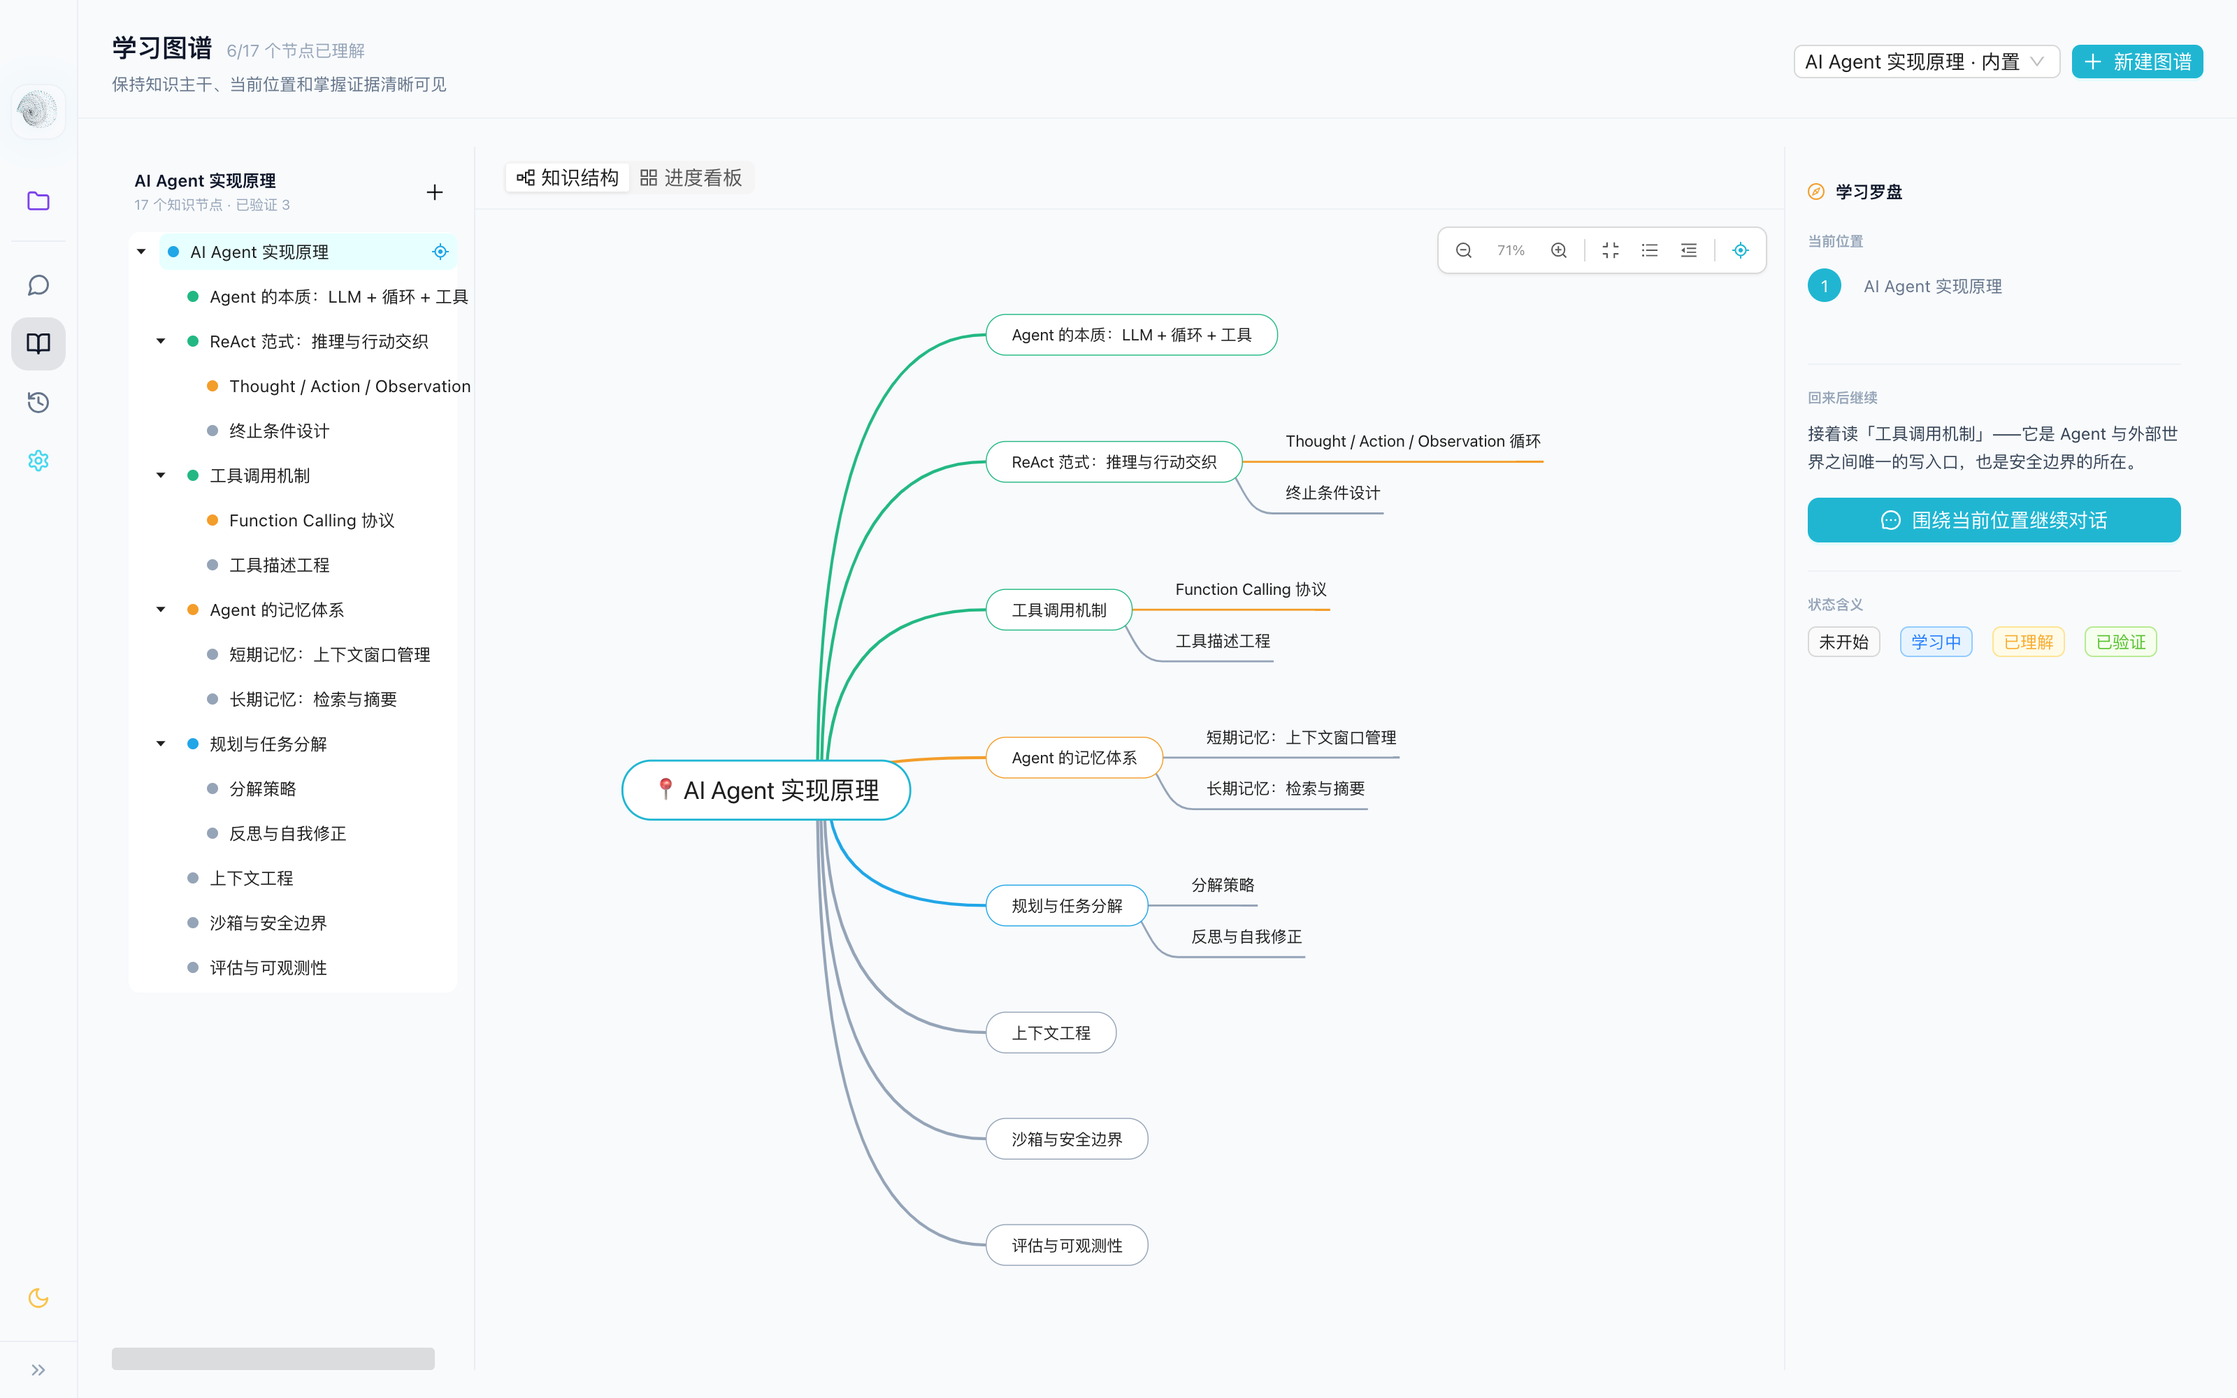
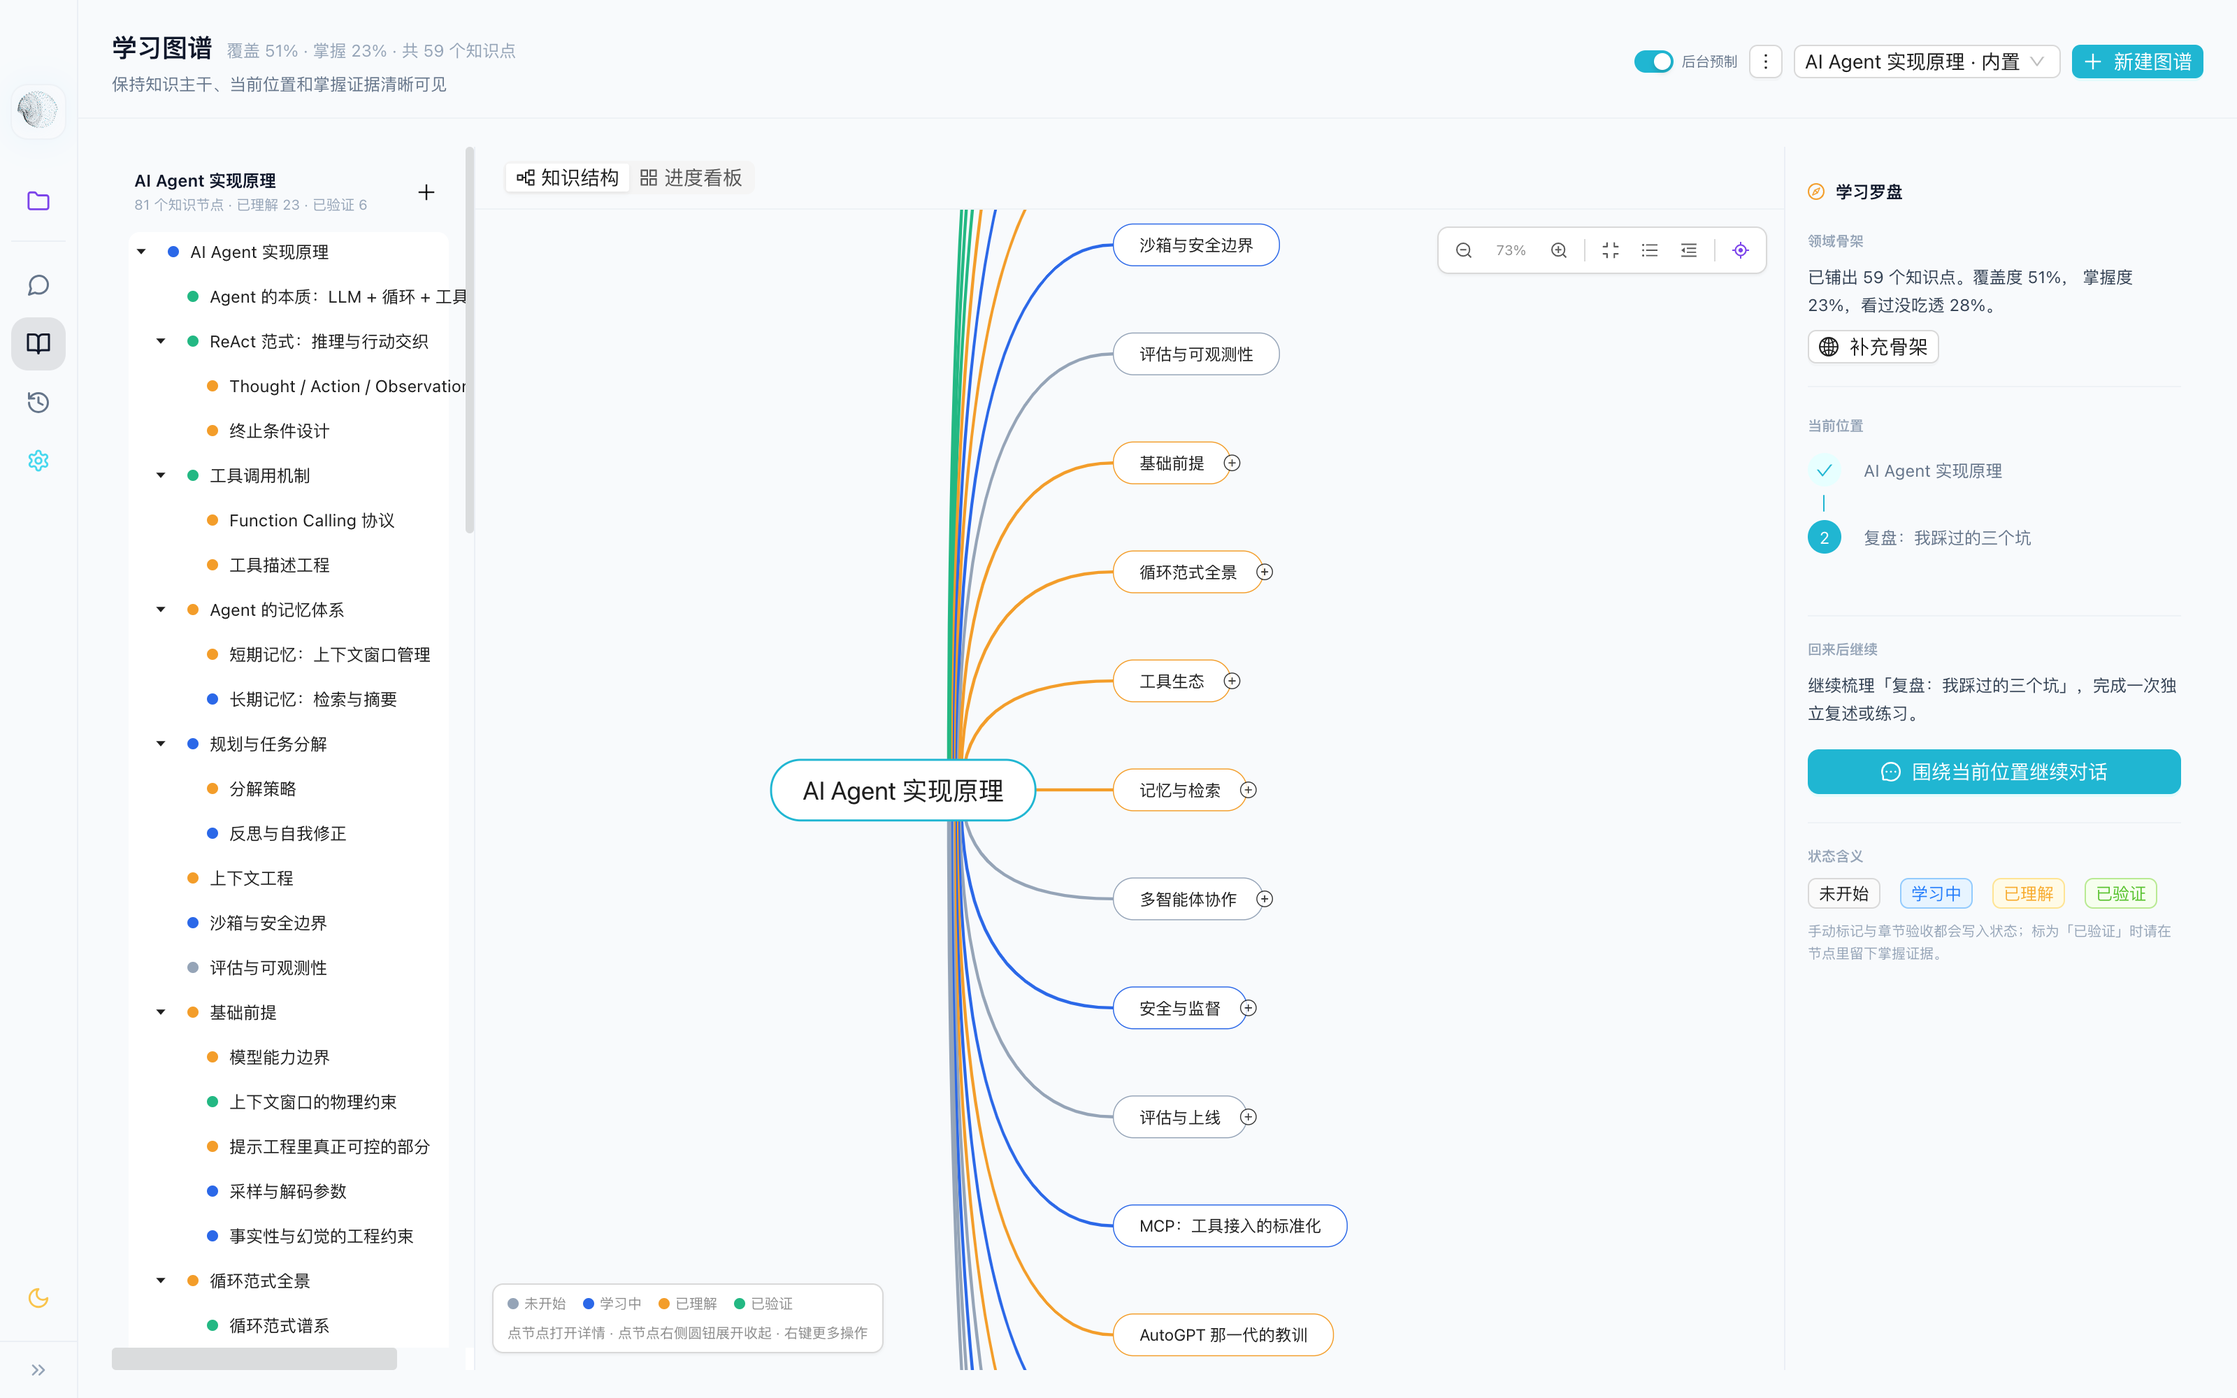
docs: 重采 README 界面截图，同步居中详情窗口与知识契约说明
旧截图拍摄于节点详情还是右侧抽屉、图谱只有 30 个节点的时期，与当前
界面已经不符。四张图全部按真实界面重采（3200x2000）：

- hero-mindmap  收起到主干 + 缩放到 70% 取景。81 节点的图谱直接适配
                画布只有 18%，分支名不可读，所以改成结构总览取景
- book-reader   居中详情窗口，滚到「技术要点 / 表格 / 代码实例」同屏
- selection-ask 浮动工具条（圈选提问 / 下钻 / 平铺同类 / 跨域门户）
- progress-board 进度看板：骨架规模 59、覆盖 51%、掌握 23%

同步调整采集脚本与会话说明：

- capture-screenshots.js 按 title 定位纯图标工具条按钮，新增导图取景
  函数（收起主干后缩放到目标比例），详情窗口改用 .ant-modal-body 作为
  滚动容器，圈选逻辑适配居中窗口
- README 补充正文生成契约（定义先行 / 具体量 / 三档确定性）、居中阅读
  窗口、圈选工具条四个动作，并修正内置图谱规模（17 章 → 10 分支 81 知识点）
- docs/screenshots/README.md 增补取景约定；AGENTS.md 记录截图失效条件
- CHANGELOG 补记上一版遗漏的节点详情窗口与知识契约变更

diff --git a/scripts/capture-screenshots.js b/scripts/capture-screenshots.js
@@ -13,6 +13,12 @@
 //
 // 用法：
 //   node scripts/capture-screenshots.js [输出目录，默认 docs/screenshots]
+//
+// 采集动作：
+//   hero-mindmap     知识结构：收起到主干 + 缩放到可读比例，避免 80+ 节点被适配成 18%
+//   progress-board   切到进度看板
+//   book-reader      打开节点详情（居中窗口），滚动到「技术要点 / 表格 / 代码实例」同屏
+//   selection-ask    在正文中构造真实选区，触发浮动工具条并展开提问面板
 
 const fs = require('fs')
 const path = require('path')
@@ -20,6 +26,10 @@ const path = require('path')
 const PORT = Number(process.env.CDP_PORT || 9222)
 const OUT_DIR = path.resolve(process.argv[2] || 'docs/screenshots')
 const VIEWPORT = { width: 1600, height: 1000, deviceScaleFactor: 2 }
+
+// 思维导图的取景比例：全图适配会把 80+ 节点压到 18%，正文小到不可读。
+// 收起到主干（保留根 + 一级分支）后放大到 70% 左右，结构完整且分支名可读。
+const MINDMAP_TARGET_SCALE = 70
 
 fs.mkdirSync(OUT_DIR, { recursive: true })
 
@@ -132,15 +142,47 @@ const CLICK_BY_TEXT = (selector, text) => `
   return true;
 `
 
+// 思维导图工具条是纯图标按钮，没有文本，只能按 title 定位
+const CLICK_BY_TITLE = title => `
+  const btn = document.querySelector('button[title=' + JSON.stringify(${JSON.stringify(title)}) + ']');
+  if (!btn) return false;
+  btn.click();
+  return true;
+`
+
+const READ_SCALE = `
+  const el = Array.from(document.querySelectorAll('span')).find(x => /^\\d+%$/.test(x.textContent.trim()));
+  return el ? parseInt(el.textContent.trim(), 10) : null;
+`
+
 async function goto(cdp, hash) {
   await cdp.evaluate(`window.location.hash = ${JSON.stringify(hash)}; return true`)
+  await sleep(1200)
+}
+
+// 把知识结构调到「可读的结构总览」取景：收起到主干 + 缩放到目标比例。
+// 全图适配在小图谱上是好取景，但本示例有 80+ 节点，适配结果只有 18%。
+async function frameMindmap(cdp) {
+  const collapsed = await cdp.evaluate(CLICK_BY_TITLE('收起到主干'))
+  if (!collapsed) console.warn('  ⚠ 未找到「收起到主干」按钮')
+  await sleep(1800)
+
+  for (let step = 0; step < 30; step++) {
+    const current = await cdp.evaluate(READ_SCALE)
+    if (!Number.isFinite(current)) break
+    if (Math.abs(current - MINDMAP_TARGET_SCALE) <= 3) break
+    await cdp.evaluate(CLICK_BY_TITLE(current < MINDMAP_TARGET_SCALE ? '放大' : '缩小'))
+    await sleep(400)
+  }
+  const finalScale = await cdp.evaluate(READ_SCALE)
+  console.log(`  取景比例: ${finalScale}%`)
   await sleep(1200)
 }
 
 async function main() {
   const { cdp, ws } = await connect()
 
-  // 重载页面，保证每次采集都从干净状态开始（抽屉关闭、视图默认）
+  // 重载页面，保证每次采集都从干净状态开始（详情窗口关闭、视图默认）
   await cdp.send('Page.reload', { ignoreCache: false })
   await sleep(2500)
 
@@ -156,9 +198,9 @@ async function main() {
   // ---- 1. 知识结构（思维导图）----
   console.log('\n[1/4] hero-mindmap —— 知识结构')
   await goto(cdp, '#/learning')
-  await cdp.evaluate(`return true`)
   await waitFor(cdp, `document.querySelector('.learning-tree')`, { label: '知识树渲染' })
-  await sleep(2500)   // 等思维导图布局与动画稳定
+  await sleep(2000)          // 等思维导图布局稳定
+  await frameMindmap(cdp)
   await cdp.shot('hero-mindmap')
 
   // ---- 2. 进度看板 ----
@@ -168,27 +210,43 @@ async function main() {
   await sleep(2000)
   await cdp.shot('progress-board')
 
-  // 切回知识结构，后续截图保持一致
+  // 切回知识结构，并恢复同样的取景，让后续截图里的背景保持一致
   await cdp.evaluate(CLICK_BY_TEXT('.ant-segmented-item', '知识结构'))
-  await sleep(1200)
+  await sleep(1500)
+  await frameMindmap(cdp)
 
   // ---- 3. 章节正文 ----
+  // 节点详情已从右侧抽屉改为居中窗口，正文列限宽 780px 居中
   console.log('\n[3/4] book-reader —— 章节正文')
   const opened = await cdp.evaluate(CLICK_BY_TEXT('.learning-tree .ant-tree-node-content-wrapper', 'Agent 的本质'))
   if (!opened) throw new Error('无法打开目标节点')
-  await waitFor(cdp, `document.querySelector('.learning-book')`, { label: '章节正文渲染' })
+  await waitFor(cdp, `document.querySelector('.ant-modal .learning-book')`, { label: '章节正文渲染' })
   await sleep(1500)
+
+  // 取景：把「技术要点」压到正文区顶部，让固定结构的四段（要点 / 讲解 / 表格 / 代码实例）
+  // 尽量同屏——这是「按固定结构撰写、拒绝笼统介绍」的直接证据
+  const scrolled = await cdp.evaluate(`
+    const body = document.querySelector('.ant-modal-body');
+    const heading = Array.from(document.querySelectorAll('.learning-book h3'))
+      .find(el => el.textContent.includes('技术要点'));
+    if (!body || !heading) return 'no-target';
+    body.scrollTop += heading.getBoundingClientRect().top - 106;
+    return body.scrollTop;
+  `)
+  if (scrolled === 'no-target') console.warn('  ⚠ 未找到「技术要点」标题，保持顶部取景')
+  await sleep(1000)
   await cdp.shot('book-reader')
 
   // ---- 4. 圈选提问 ----
   console.log('\n[4/4] selection-ask —— 圈选提问')
   // 在正文中构造真实选区，并派发 mouseup 触发浮动工具条
   const selected = await cdp.evaluate(`
-    const root = document.querySelector('.learning-book');
+    const root = document.querySelector('.ant-modal .learning-book');
     if (!root) return 'no-content';
 
-    // 找一个包含足够文字的段落
-    const para = Array.from(root.querySelectorAll('p')).find(p => p.textContent.trim().length > 20);
+    // 找一个包含足够文字、且不在代码块里的段落
+    const para = Array.from(root.querySelectorAll('p'))
+      .find(p => p.textContent.trim().length > 20 && !p.closest('pre'));
     if (!para) return 'no-paragraph';
 
     const range = document.createRange();
@@ -205,7 +263,7 @@ async function main() {
   console.log(`  圈选内容: 「${selected}…」`)
   await sleep(800)
 
-  await waitFor(cdp, `document.querySelector('.ant-btn-primary') && document.body.innerText.includes('圈选提问')`, {
+  await waitFor(cdp, `document.body.innerText.includes('圈选提问')`, {
     label: '浮动工具条出现', timeout: 8000,
   })
   // 点「圈选提问」，展开下方问答面板
@@ -218,9 +276,12 @@ async function main() {
   await sleep(1500)
 
   // 面板打开后工具条会收起，这里再造一次选区让浮动工具条重新浮出，
-  // 使截图同时呈现「浮动工具条 + 圈选内容 + 提问面板」
+  // 使截图同时呈现「浮动工具条 + 圈选内容 + 提问面板」。
+  // 详情窗口改为居中后，正文滚动容器是 .ant-modal-body，不再靠 window 滚动，
+  // 因此改用它来把目标段落滚到可视区中部。
   const again = await cdp.evaluate(`
-    const root = document.querySelector('.learning-book');
+    const root = document.querySelector('.ant-modal .learning-book');
+    const body = document.querySelector('.ant-modal-body');
     if (!root) return 'no-content';
 
     // 选一个正文中段、且不在代码块里的段落，先滚到容器中央再框选，
@@ -231,14 +292,14 @@ async function main() {
 
     const target = paras[Math.floor(paras.length / 2)];
     target.scrollIntoView({ block: 'center' });
-
+    if (body) body.scrollTop = body.scrollTop;   // 触发一次重排，确保 rect 是最新值
     return target.textContent.trim().slice(0, 30);
   `)
   if (again === 'no-paragraph' || again === 'no-content') throw new Error('未找到适合演示圈选的段落')
-  await sleep(900)   // 等滚动稳定
+  await sleep(1000)   // 等滚动稳定
 
   const picked = await cdp.evaluate(`
-    const root = document.querySelector('.learning-book');
+    const root = document.querySelector('.ant-modal .learning-book');
     // 重新按当前视口挑：优先完全可见、离中心最近的段落
     const center = window.innerHeight / 2;
     const paras = Array.from(root.querySelectorAll('p'))

diff --git a/README.md b/README.md
@@ -36,15 +36,17 @@ Folio 给学习装上一根**脊梁**。
 
 ### 📖 活的书 · Living Book
 
-每个知识节点就是一章。AI 按固定结构撰写正文：**技术要点 → 深入讲解 → 代码实例 → 常见误区与考点**，拒绝笼统介绍。写完即持久化，下次打开直接读。
+每个知识节点就是一章。AI 按固定结构撰写正文：**技术要点 → 深入讲解 → 代码实例 → 常见误区与考点**（人文学科自动换成「实例与证据」），拒绝笼统介绍。写完即持久化，下次打开直接读。
 
-章节正文里支持表格、代码高亮与「复制代码」等阅读细节：
+既然看和学是这个应用的主要动作，正文就按**权威 + 结构完整**的契约生成：第一个要点必须先给出可判定的定义，能量化的一律给具体量，并区分**公认结论 / 主流做法 / 仍有分歧**三档确定性；拿不准的宁可标出分歧，也不编造函数名、版本号或论文。撰写时会带上全书目录与同级章节标题，避免章节之间互相重复。
+
+节点详情是**居中的阅读窗口**，正文列限宽 780px 居中，行长按连续阅读调过；正文里支持表格、代码高亮与「复制代码」：
 
 ![AI 撰写的章节正文](docs/screenshots/book-reader.png)
 
 ### ✂ 圈选提问 · Select & Ask
 
-书上任何看不懂的地方，圈选即问。浮动工具条提供「圈选提问」与「下钻」两个动作，答案流式返回，并沉淀进该章节的 Q&A 区 —— **你的困惑成为书的一部分**。
+书上任何看不懂的地方，圈选即问。浮动的段落级工具条提供四个动作：**圈选提问 / 下钻 / 平铺同类 / 跨域门户**。答案流式返回，并沉淀进该章节的 Q&A 区 —— **你的困惑成为书的一部分**。
 
 ![圈选提问](docs/screenshots/selection-ask.png)
 
@@ -115,7 +117,7 @@ npm run dev
 npm run build:renderer && npm start
 ```
 
-首次打开即可阅读内置的演示图谱 **「AI Agent 实现原理」**（17 章，含完整正文），无需先配置模型也能看到完整效果。
+首次打开即可阅读内置的演示图谱 **「AI Agent 实现原理」**（10 个主干分支 / 81 个知识点，正文全部预置），无需先配置模型也能看到完整效果。
 
 ## 架构
 
@@ -125,14 +127,14 @@ folio/
 │   ├── muse/                 # 学习图谱存储 / AI 提示词 / 后台预生成管线
 │   │   ├── learning-maps.js           # 图谱持久化（JSON store，原子写）
 │   │   ├── learning-seeds.js          # 内置图谱装载（见下方说明）
-│   │   ├── learning-prompts.js        # 撰写 / 提问 / 下钻三类提示词
+│   │   ├── learning-prompts.js        # 知识生成契约（骨架 / 正文 / 下钻 / 平铺 / 门户 / 出题 / 判分 / 提问）
 │   │   └── learning-prefetch.js       # 后台预生成队列 + 交互抢占调度
 │   ├── ipc/                  # IPC 流式通道（requestId + AbortController）
 │   ├── sandbox/              # 命令安全策略与沙箱执行
 │   └── task-engine/          # ReAct 任务引擎
 ├── src/renderer/             # React + Ant Design 渲染层
 │   └── src/
-│       ├── pages/LearningMapPage.tsx          # 图谱 / 看板 / 抽屉
+│       ├── pages/LearningMapPage.tsx          # 图谱 / 看板 / 居中详情窗口
 │       └── components/LearningBookReader.tsx   # 阅读器 + 圈选交互
 ├── src/shared/model-provider.js  # 模型适配层（qoder / openai，调用标签注册表）
 ├── src/mcp-server/           # MCP Server

diff --git a/CHANGELOG.md b/CHANGELOG.md
@@ -12,6 +12,7 @@
 - 学习图谱列表拆出元数据视图，章节正文改为按需读取。
 - 学习图谱「在学习什么」的问答与验收记录改为保留最新若干条。
 - 后台章节预制改为可在学习图谱页开关，连续失败的章节退避后跳过。
+- 内置演示图谱扩充为 10 个主干分支 / 59 个知识点，正文全部预置，克隆后开箱可读。
 
 ### Changed
 
@@ -24,6 +25,8 @@
 - 知识结构导图：单击打开详情、圆钮展开收起、支持右键菜单，收起保留主干，数据刷新后保留展开状态。
 - 进度看板支持拖动卡片修改学习状态。
 - 学习图谱「继续对话」进入对话页后自动开始，不再需要手动发送。
+- 节点详情从右侧抽屉改为居中窗口，阅读正文列限宽居中，正文区独立滚动。
+- 知识生成契约升级：正文先给可判定的定义、能量化处给具体量、区分确定性三档，撰写时带入全书目录与同级章节标题以避免重复。
 
 ### Removed
 

diff --git a/AGENTS.md b/AGENTS.md
@@ -75,6 +75,10 @@ canonical project map and only inspect the modules relevant to the current task.
   splitting. Size warnings are known, not build failures.
 - Do not modify generated `src/renderer/dist/bundle.js` manually; it is updated by
   the renderer build.
+- UI changes that affect the learning map or the node-detail window invalidate the
+  README screenshots. Regenerate with `scripts/capture-screenshots.js` and follow the
+  framing convention in `docs/screenshots/README.md`; the knowledge map has 80+ nodes,
+  so its default "fit to canvas" framing (18%) is not usable for a README image.
 
 ## Editing Safety
 
